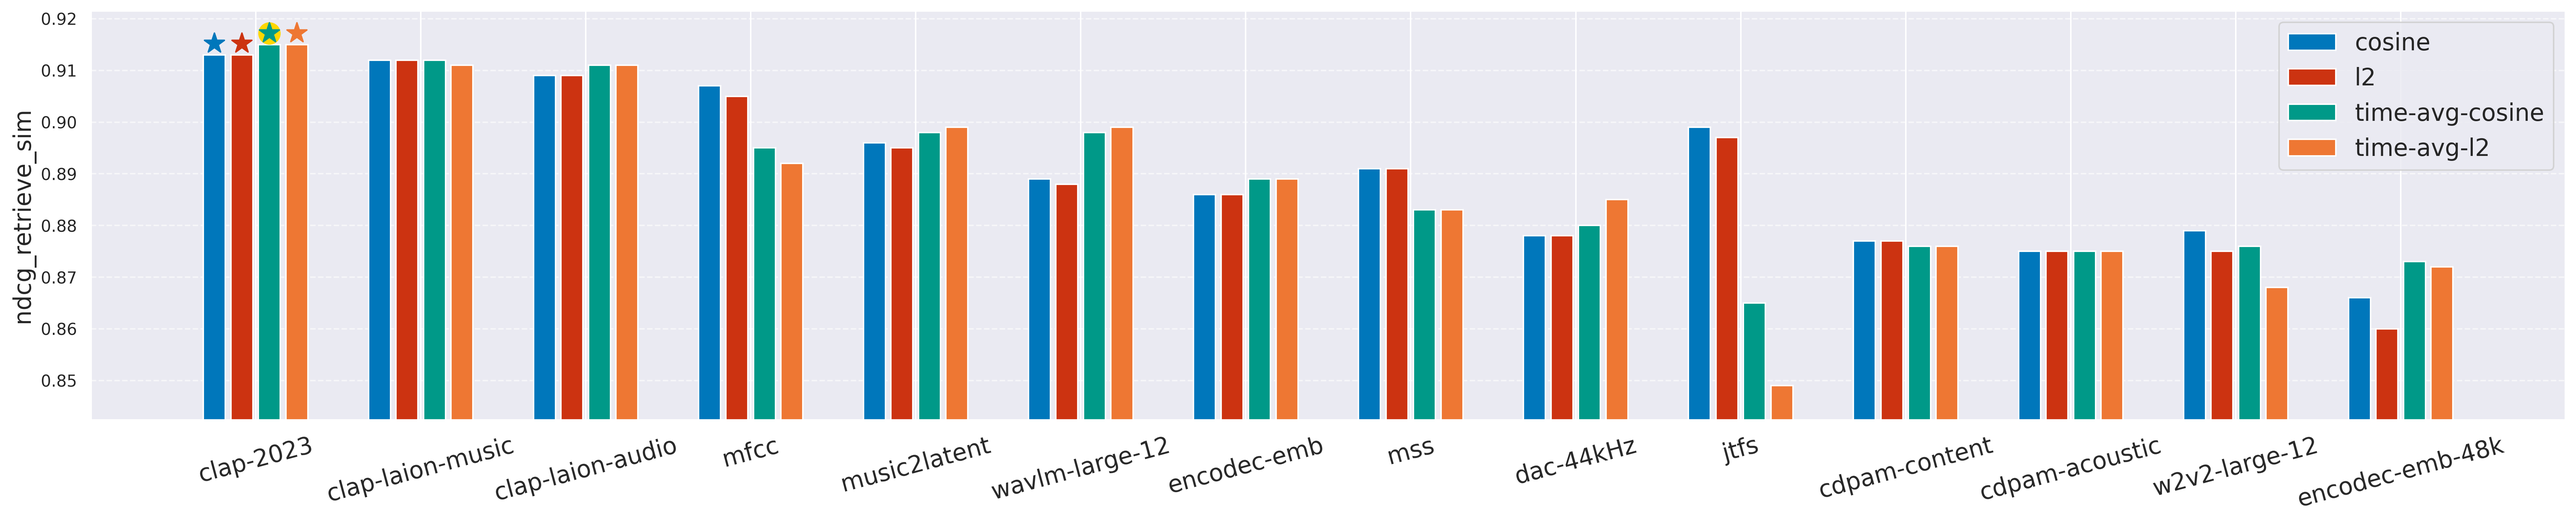
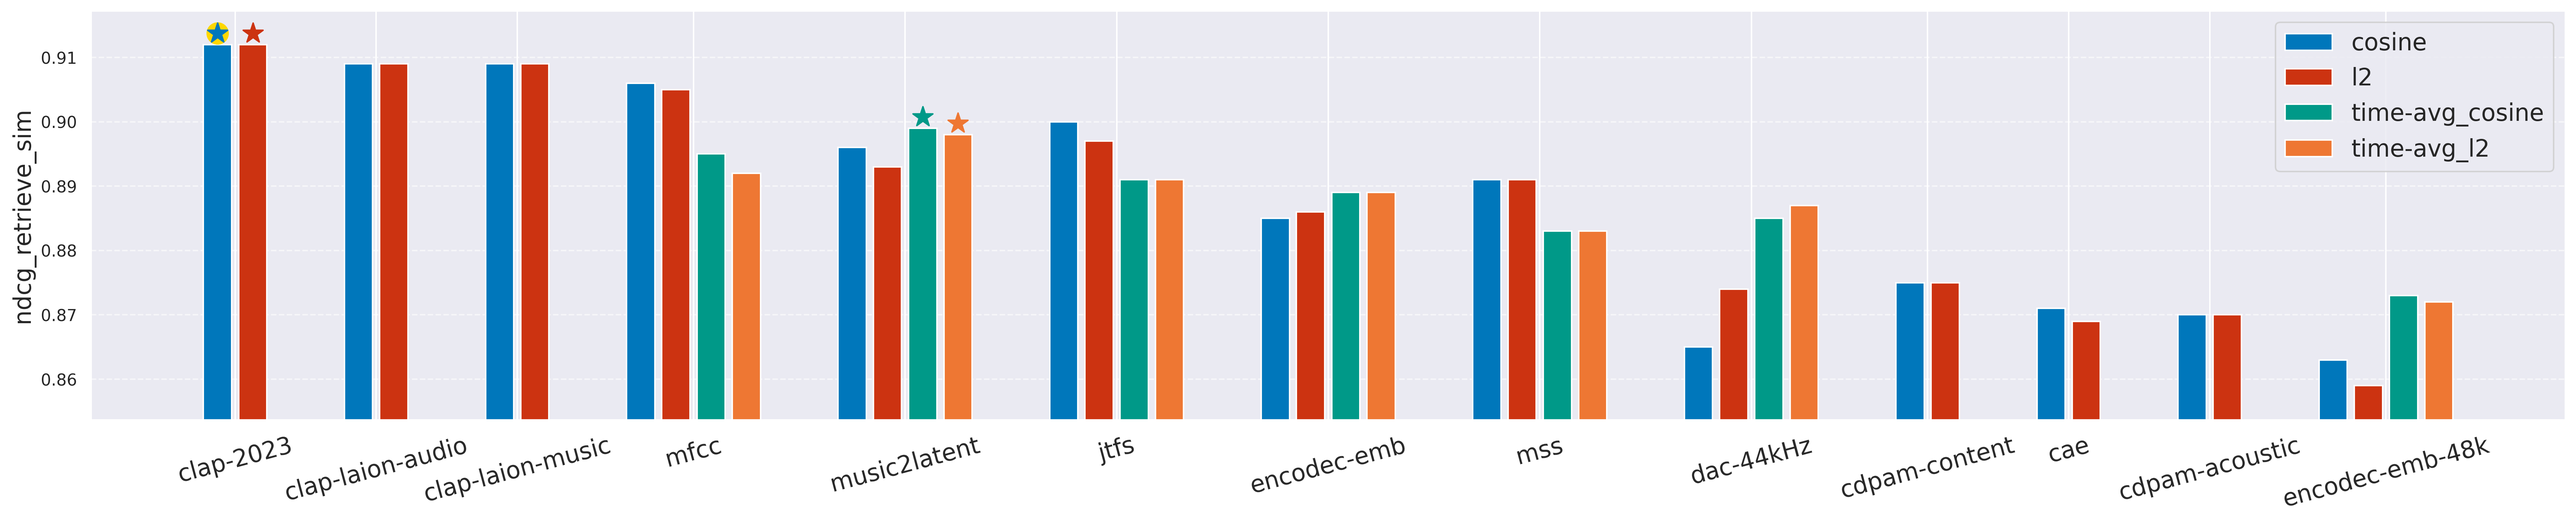
update plot

diff --git a/scripts/plot_leader_board.py b/scripts/plot_leader_board.py
@@ -29,7 +29,7 @@ for model, distance, metric, score in entries:
         metric_scores[metric].append((model, distance, score))
     else:
         assert len(splits) == 2
-        metric_scores[metric].append((splits[1], f"{splits[0]}-{distance}", score))
+        metric_scores[metric].append((splits[1], f"{splits[0]}_{distance}", score))
 
 # Set style
 sns.set_theme(style="darkgrid")
@@ -46,6 +46,7 @@ for metric, scores in metric_scores.items():
         model: np.mean([s for _, s in data]) for model, data in model_groups.items()
     }
 
+    # list of models sorted by average score
     sorted_models = sorted(model_avg_scores, key=model_avg_scores.get, reverse=True)
 
     # Organize data for plotting
@@ -55,13 +56,13 @@ for metric, scores in metric_scores.items():
     gap = 2  # Space between model groups
 
     for model in sorted_models:
-        # Sort the 4 configs within the model by string name
+        # Sort configs within the model by string name
         sorted_types = sorted(model_groups[model], key=lambda x: x[0])
 
         x_range = list(range(current_x, current_x + len(sorted_types)))
         model_x_ranges[model] = x_range
         sorted_entries.extend(
-            [(f"{model} {d}", s, x) for (d, s), x in zip(sorted_types, x_range)]
+            [(c, s, x) for (c, s), x in zip(sorted_types, x_range)]
         )
 
         current_x += (
@@ -69,7 +70,7 @@ for metric, scores in metric_scores.items():
         )  # Move x position for next model, adding a gap
 
     # Extract x-axis labels, scores, and x positions
-    keys = [k for k, _, _ in sorted_entries]
+    configs = [c for c, _, _ in sorted_entries]
     scores = [v for _, v, _ in sorted_entries]
     x_positions = [x for _, _, x in sorted_entries]
 
@@ -81,75 +82,65 @@ for metric, scores in metric_scores.items():
 
     colors = ["#0077BB", "#CC3311", "#009988", "#EE7733"]
 
+    config_scores = {}
+
     # Plot each model separately, ensuring gaps between groups
     for model in sorted_models:
         x_range = model_x_ranges[model]
         y_values = [
             scores[x_positions.index(x)] for x in x_range
         ]  # Get scores for this model
+        config_labels = [
+            configs[x_positions.index(x)] for x in x_range
+        ]
 
         ax.bar(
             x_range,
             y_values,
-            color=colors,
-            label=[config for config, _ in sorted_types],
+            color=colors[: len(x_range)],
+            label=config_labels,
         )
 
-    best_indices = []
-    for i in range(4):
-        group_indices = [j for j in range(len(scores)) if j % 4 == i]
+        for i, c in enumerate(config_labels):
+            if c not in config_scores:
+                config_scores[c] = []
+            config_scores[c].append((x_range[i], y_values[i]))
+
+    best_tuple_entries = []
+    for i, c in enumerate(config_scores):
         if metric == "mae":
-            index = min(group_indices, key=lambda j: scores[j])
+            best_tuple = min(config_scores[c], key=lambda x: x[1])
         else:
-            index = max(group_indices, key=lambda j: scores[j])
-        best_indices.append(index)
+            best_tuple = max(config_scores[c], key=lambda x: x[1])
+        ax.scatter(
+            best_tuple[0],
+            best_tuple[1] + small_margin / 3,
+            marker="*",
+            color=colors[i],
+            s=200,
+            zorder=2,
+        )
+        best_tuple_entries.append(best_tuple)
 
-    # Get the best x and y values for each config
-    best_x = [x_positions[i] for i in best_indices]
-    best_y = [scores[i] for i in best_indices]
-
-    # Find the overall best index out of the four
     if metric == "mae":
-        overall_best_index = best_indices[best_y.index(min(best_y))]
+        best_of_best = min(best_tuple_entries, key=lambda x: x[1])
     else:
-        overall_best_index = best_indices[best_y.index(max(best_y))]
+        best_of_best = max(best_tuple_entries, key=lambda x: x[1])
 
-    # Get the x and y for the overall best
-    overall_best_x = x_positions[overall_best_index]
-    overall_best_y = scores[overall_best_index]
-
-    # Plot the gold marker behind the original marker
     ax.scatter(
-        overall_best_x,
-        overall_best_y + small_margin / 3,
+        best_of_best[0],
+        best_of_best[1] + small_margin / 3,
         marker="o",
         color="gold",
         s=200,
-    )  # Larger size and lower z-order
-
-    # Plot the original markers
-    ax.scatter(
-        best_x, [y + small_margin / 3 for y in best_y], marker="*", color=colors, s=200
+        zorder=1,
     )
-
-    # ax.set_xticks(x_positions)
-    # ax.set_xticklabels([config.split(" ")[1] for config in keys], rotation=90)  # Rotate config labels
 
     model_centers = []
     # Add model labels under the grouped config labels
     for model, x_range in model_x_ranges.items():
         # Calculate the center of the x_range for the model
         model_centers.append(sum(x_range) / len(x_range))
-        # ax.text(
-        #     model_center,
-        #     min_value - small_margin*5.5,  # Position below the bars
-        #     model,  # Model name
-        #     ha="center",  # Center align
-        #     va="top",  # Align to the top of the text
-        #     fontsize=16,
-        #     color="black",
-        #     rotation=30,
-        # )
 
     ax.set_xticks(model_centers)
     ax.set_xticklabels(list(model_x_ranges.keys()), rotation=15, fontsize=16)
